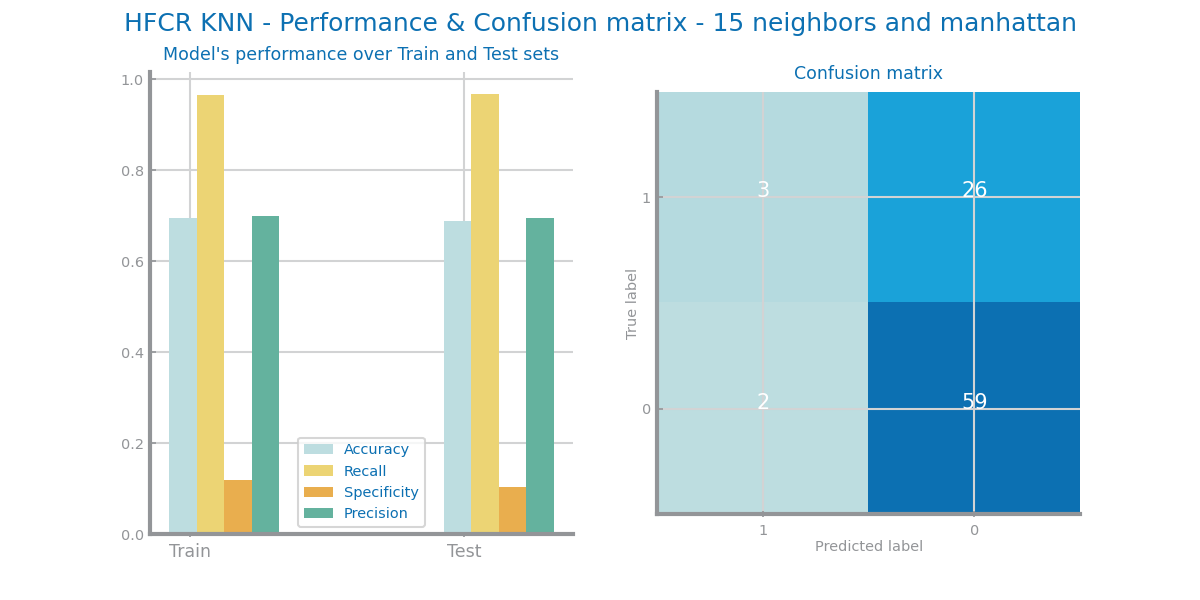
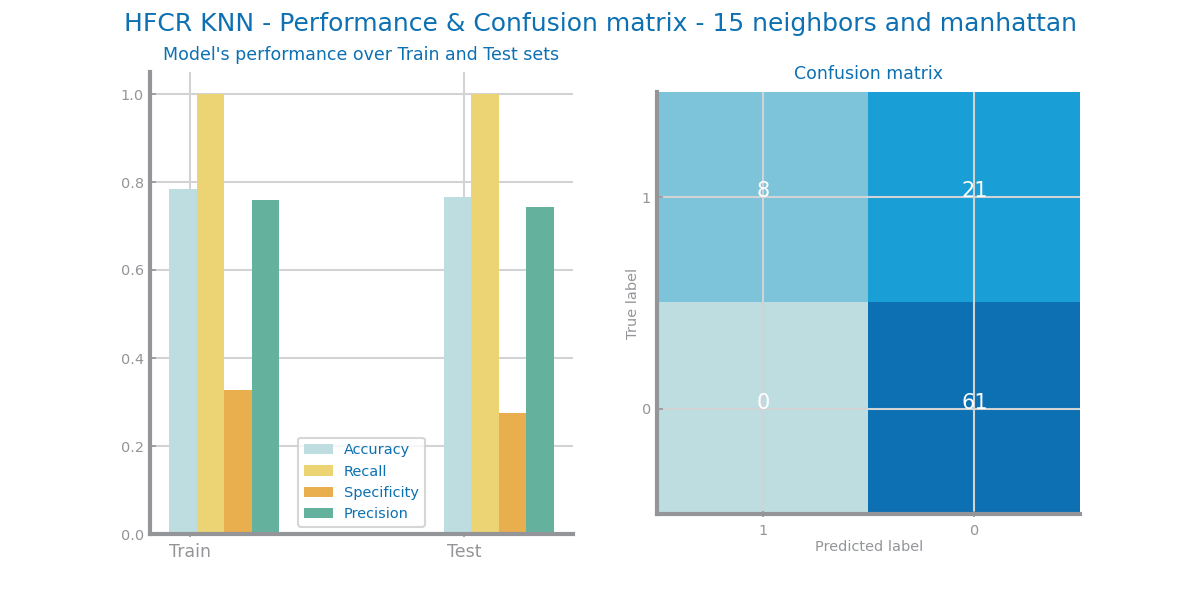
Correction of lab3

diff --git a/Labs/Lab03/HFCR_KNN.py b/Labs/Lab03/HFCR_KNN.py
@@ -1,16 +1,42 @@
 import numpy as np
 import pandas as pd
-import matplotlib.pyplot as plt
-from sklearn.model_selection import train_test_split
-import sklearn.metrics as metrics
-from sklearn.neighbors import KNeighborsClassifier
 import ds_functions as ds
+import matplotlib.pyplot as plt
+import sklearn.metrics as metrics
+from sklearn.impute import SimpleImputer
+from sklearn.neighbors import KNeighborsClassifier
+from sklearn.model_selection import train_test_split
+from sklearn.preprocessing import StandardScaler
 
 graphsDir = './Results/'
 
 data: pd.DataFrame = pd.read_csv('../../Dataset/heart_failure_clinical_records_dataset.csv')
-y: np.ndarray = data.pop('DEATH_EVENT').values
-X: np.ndarray = data.values
+
+data['DEATH_EVENT'] = data['DEATH_EVENT'].astype('category')
+sb_vars = data.select_dtypes(include='object')
+data[sb_vars.columns] = data.select_dtypes(['object']).apply(lambda x: x.astype('category'))
+
+cols_nr = data.select_dtypes(include='number')
+# print(cols_nr)
+cols_sb = data.select_dtypes(include='category')
+# print(cols_sb)
+
+imp_nr = SimpleImputer(strategy='mean', missing_values=np.nan, copy=True)
+imp_sb = SimpleImputer(strategy='most_frequent', missing_values='', copy=True)
+df_nr = pd.DataFrame(imp_nr.fit_transform(cols_nr), columns=cols_nr.columns)
+# df_sb = pd.DataFrame(imp_sb.fit_transform(cols_sb), columns=cols_sb.columns)
+
+transf = StandardScaler(with_mean=True, with_std=True, copy=True).fit(df_nr)
+df_nr = pd.DataFrame(transf.transform(df_nr), columns= df_nr.columns)
+norm_data_zscore = df_nr.join(cols_sb, how='right')
+#norm_data_zscore = df_nr
+norm_data_zscore['DEATH_EVENT'] = norm_data_zscore['DEATH_EVENT'].astype('int64')
+norm_data_zscore.describe(include='all')
+
+print(norm_data_zscore.dtypes)
+
+y: np.ndarray = norm_data_zscore.pop('DEATH_EVENT').values
+X: np.ndarray = norm_data_zscore.values
 labels = pd.unique(y)
 
 trnX, tstX, trnY, tstY = train_test_split(X, y, train_size=0.7, stratify=y)

diff --git a/Labs/Lab03/HFCR_scaling.py b/Labs/Lab03/HFCR_scaling.py
@@ -21,6 +21,7 @@ print('----------------------------')
 register_matplotlib_converters()
 original = pd.read_csv('../../Dataset/heart_failure_clinical_records_dataset.csv')
 
+original['DEATH_EVENT'] = original['DEATH_EVENT'].astype('category')
 sb_vars = original.select_dtypes(include='object')
 original[sb_vars.columns] = original.select_dtypes(['object']).apply(lambda x: x.astype('category'))
 
@@ -36,19 +37,23 @@ df_nr = pd.DataFrame(imp_nr.fit_transform(cols_nr), columns=cols_nr.columns)
 
 transf = StandardScaler(with_mean=True, with_std=True, copy=True).fit(df_nr)
 df_nr = pd.DataFrame(transf.transform(df_nr), columns= df_nr.columns)
-# norm_data_zscore = df_nr.join(df_sb, how='right')
-norm_data_zscore = df_nr
+norm_data_zscore = df_nr.join(cols_sb, how='right')
+#norm_data_zscore = df_nr
+norm_data_zscore['DEATH_EVENT'] = norm_data_zscore['DEATH_EVENT'].astype('int64')
 norm_data_zscore.describe(include='all')
 
 transf = MinMaxScaler(feature_range=(0, 1), copy=True).fit(df_nr)
 df_nr = pd.DataFrame(transf.transform(df_nr), columns= df_nr.columns)
-# norm_data_minmax = df_nr.join(df_sb, how='right')
-norm_data_minmax = df_nr
+norm_data_minmax = df_nr.join(cols_sb, how='right')
+#norm_data_minmax = df_nr
+norm_data_minmax['DEATH_EVENT'] = norm_data_minmax['DEATH_EVENT'].astype('int64')
 norm_data_minmax.describe(include='all')
+
+original['DEATH_EVENT'] = original['DEATH_EVENT'].astype('int64')
 
 fig, axs = plt.subplots(1, 3, figsize=(60,20),squeeze=False)
 axs[0, 0].set_title('Original data')
-df_nr.boxplot(ax=axs[0, 0])
+original.boxplot(ax=axs[0, 0])
 axs[0, 1].set_title('Z-score normalization')
 norm_data_zscore.boxplot(ax=axs[0, 1])
 axs[0, 2].set_title('MinMax normalization')
